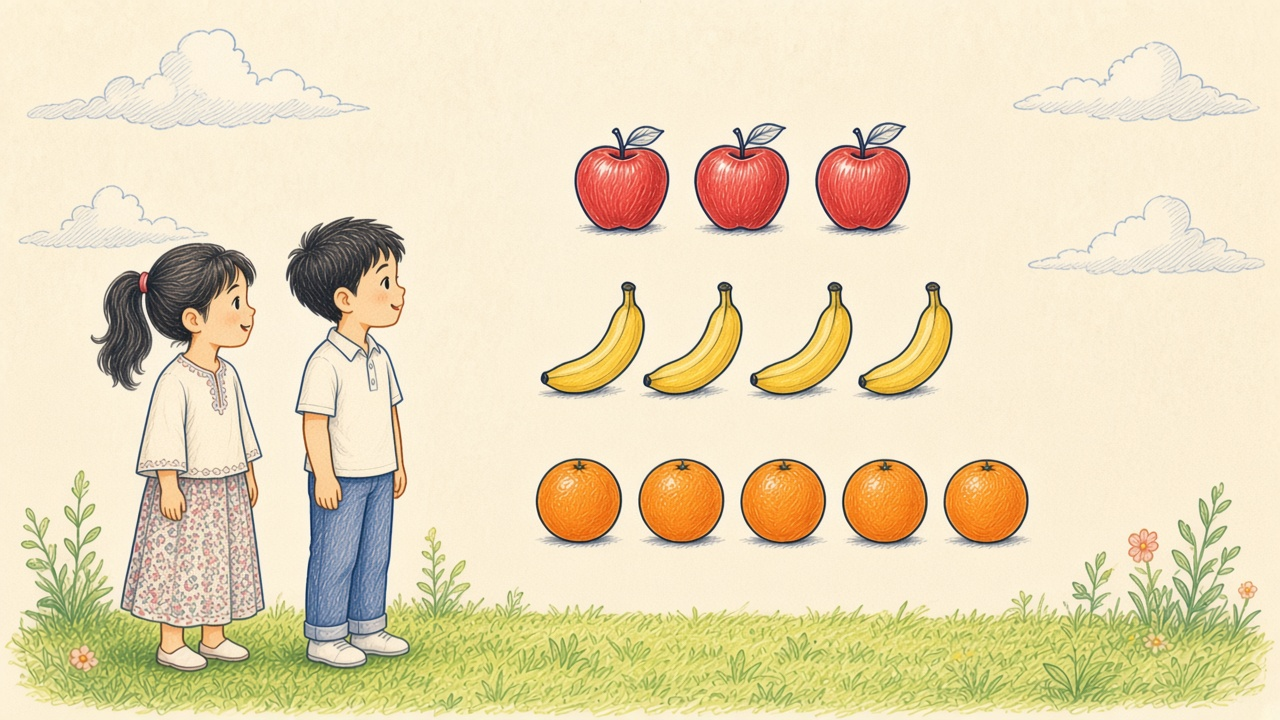
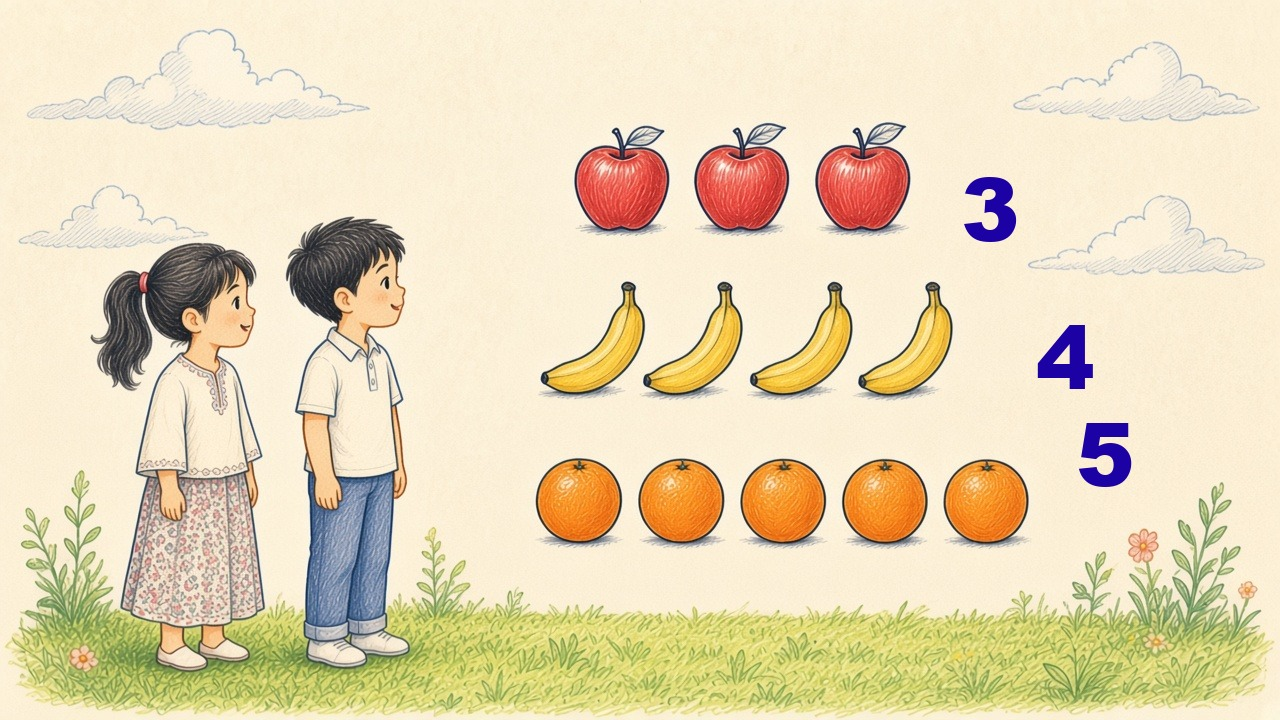
feat: kembalikan angka pada gambar adegan piknik.
Lambang 3, 4, 5, urutan 1 sampai 5, serta tanda 5 > 3 dan 4 = 4 kembali tampil di gambar pensil warna.

Changed region(s): [[0.8438, 0.5806, 0.9062, 0.7028], [0.8125, 0.4583, 0.875, 0.55], [0.75, 0.2444, 0.8125, 0.3361]]

diff --git a/src/components/NaskahMtk1Bab1.tsx b/src/components/NaskahMtk1Bab1.tsx
@@ -916,7 +916,7 @@ export default function NaskahMtk1Bab1({
           </Dialog>
           <article className="rounded-2xl border-2 border-[#E23B3B]/25 bg-[#FFF1F2] px-4 py-3">
             <p className="text-xs font-black uppercase text-[#9F1239]">Piring apel</p>
-            <GambarCerita src="/doodle-mtk/mtk-1-bab1-apel.jpg" alt="Rara dan Bimo berdiri di samping piring berisi tiga apel." />
+            <GambarCerita src="/doodle-mtk/mtk-1-bab1-apel.jpg" alt="Rara dan Bimo berdiri di samping piring berisi tiga apel. Angka 3." />
             <IkonUlang ikon="🍎" jumlah={3} ukuran="text-3xl" />
           </article>
           <Dialog nama="Rara" warna="border-[#DB2777]/20 bg-[#FDF2F8]">
@@ -949,7 +949,7 @@ export default function NaskahMtk1Bab1({
           />
           <article className="rounded-2xl border-2 border-violet-300/80 bg-violet-50 px-4 py-3">
             <p className="text-xs font-black uppercase text-[#9A3412]">Jeruk dari keranjang</p>
-            <GambarCerita src="/doodle-mtk/mtk-1-bab1-jeruk.jpg" alt="Bimo di samping keranjang. Lima jeruk berjajar di rumput." />
+            <GambarCerita src="/doodle-mtk/mtk-1-bab1-jeruk.jpg" alt="Bimo di samping keranjang. Lima jeruk berjajar, dihitung 1 sampai 5. Angka 5." />
             <IkonUlang ikon="🍊" jumlah={5} ukuran="text-3xl" />
           </article>
           <Dialog nama="Bimo" warna="border-[#2563EB]/20 bg-[#EFF6FF]">
@@ -973,7 +973,7 @@ export default function NaskahMtk1Bab1({
           />
           <article className="rounded-2xl border-2 border-violet-300 bg-violet-50 px-4 py-3">
             <p className="text-xs font-black uppercase text-[#92400E]">Igil membawa pisang</p>
-            <GambarCerita src="/doodle-mtk/mtk-1-bab1-pisang.jpg" alt="Igil si burung hantu berdiri di samping empat pisang." />
+            <GambarCerita src="/doodle-mtk/mtk-1-bab1-pisang.jpg" alt="Igil si burung hantu berdiri di samping empat pisang. Angka 4." />
             <IkonUlang ikon="🍌" jumlah={4} ukuran="text-3xl" />
           </article>
           <Dialog nama="Rara" warna="border-[#DB2777]/20 bg-[#FDF2F8]">
@@ -989,7 +989,7 @@ export default function NaskahMtk1Bab1({
           </ul>
           <GambarCerita
             src="/doodle-mtk/mtk-1-bab1-urut.jpg"
-            alt="Urutan buah: tiga apel, empat pisang, lima jeruk."
+            alt="Urutan buah: tiga apel angka 3, empat pisang angka 4, lima jeruk angka 5."
           />
           <Dialog nama="Rara" warna="border-[#DB2777]/20 bg-[#FDF2F8]">
             “Urutannya adalah 3, 4, 5.”
@@ -1154,7 +1154,7 @@ export default function NaskahMtk1Bab1({
           </Dialog>
           <GambarCerita
             src="/doodle-mtk/mtk-1-bab1-sama.jpg"
-            alt="Empat stroberi dan empat pisang. Jumlahnya sama, empat sama dengan empat."
+            alt="Empat stroberi dan empat pisang. Tulisan 4 sama dengan 4."
           />
           <p className="text-center text-4xl font-black text-[#1C01A5]">4 = 4</p>
           <KuisAkhirAdegan
